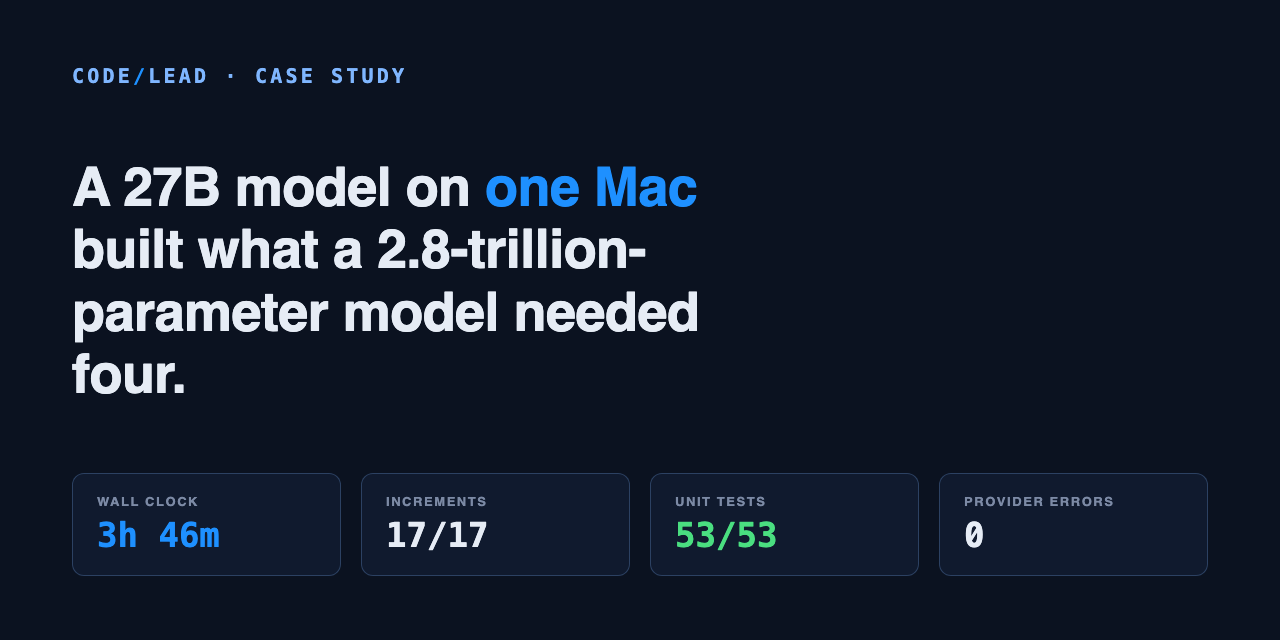
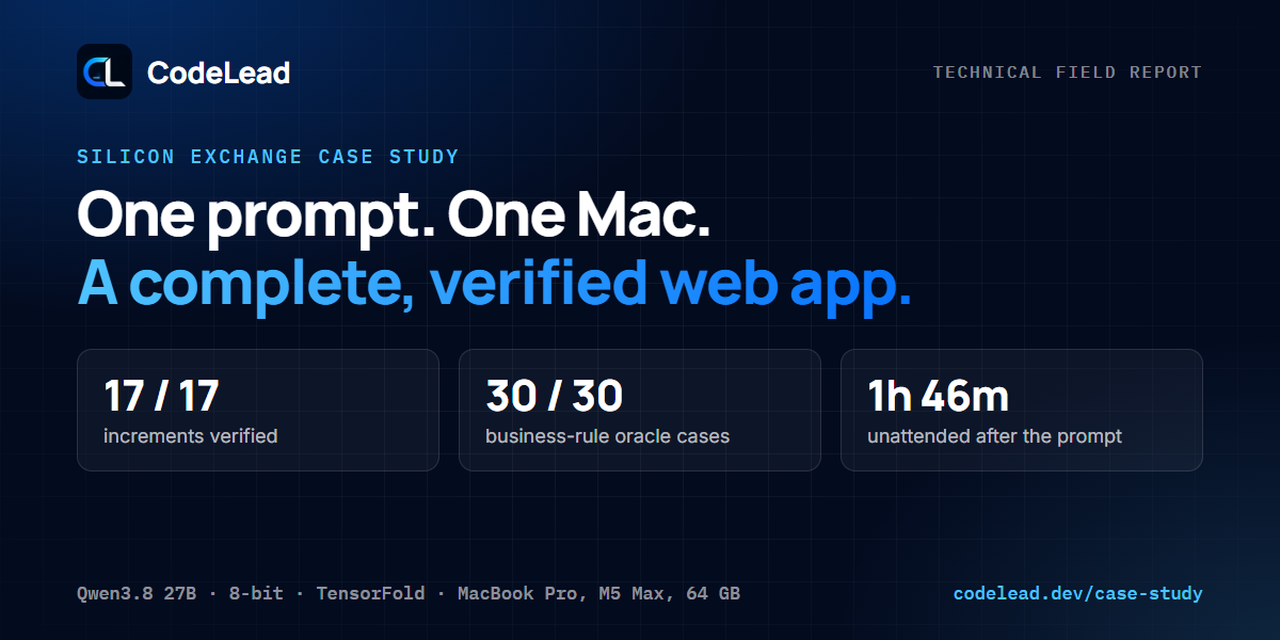
Lead with the TensorFold run of 2026-09-29; artifacts to be published
Headline figures from run k3-tensorfold-2026-09-29a (1h 46m, 17/17, 39/39 tests,
30/30 oracle cases, 48 model calls, 5 retries repaired in the run), with a note
that its artifacts are being prepared for publication. New
reproducibility/run-2026-09-29.md lists every figure with the artifact it was
measured from. The receipts repository stays as it is and is described as the
run of 2026-09-14; a run table shows all three runs. Model-and-hardware gains the
TensorFold serving; FAQ, other-models and citation date updated; social preview
regenerated.

diff --git a/README.md b/README.md
@@ -1,31 +1,41 @@
 # A 27B model on one Mac built what a 2.8-trillion-parameter model needed four.
 
-Same public challenge prompt. A complete, tested, six-route web product — planned, built,
+Same public challenge prompt. A complete, tested, five-route web product — planned, built,
 verified and committed end-to-end by **CodeLead** orchestrating a small local model. No
-human touched the code. In under two and a half hours, on a laptop.
+human touched the code. In under two hours, on a laptop.
 
-**The receipts:** the application, exactly as the pipeline produced it, with full git
-history — the shell, the build, one governed fix, the polish:
+**The receipts:** an application exactly as the pipeline produced it from this prompt, with
+full git history, from the run of 2026-09-14:
 **[CodeLead-ai/silicon-exchange-app](https://github.com/CodeLead-ai/silicon-exchange-app)**.
 How to reproduce it, step by step: **[reproducibility/](reproducibility/)**.
 
+The figures below are from the latest run, **2026-09-29**, same model and laptop, served by
+TensorFold with speculative decoding. The run's own artifacts (run journal, console and serving logs, the session log, the oracle results) are being prepared for publication and will be added to `reproducibility/` soon; until then, [`reproducibility/run-2026-09-29.md`](reproducibility/run-2026-09-29.md) holds every figure with the artifact it was measured from.
+
 | | |
 |---|---|
-| Wall clock, unattended, launch to exit | **2h 26m 37s** (2h 09m of build after a 17m 28s planning phase) |
-| Increments verified | **18 / 18** — every one gate-checked |
-| Unit tests, written by the model, passing | **40 / 40** |
-| Business-rule checks, independent of the model's tests | **26 / 26** — including the one its first attempt got wrong |
-| Provider / transport model errors | **0** — zero retries, zero warnings |
+| Wall clock, unattended, launch to exit | **1h 46m 05s** (1h 42m of build after a 4m 14s planning phase) |
+| Increments verified | **17 / 17** — every one built, tested, probed and checkpointed |
+| Unit tests, written by the model, passing | **39 / 39** (five test files) |
+| Business-rule oracle cases, independent of the model's tests | **30 / 30** |
+| Retries inside the run | **5**, across four increments (two build failures, one test failure, one probe failure, one more build failure) — every one repaired in the run, none by a person; **0** failed |
+| Model calls · tokens · cost | 48 · 758,514 prompt + 257,486 completion · **$0.00** (local) |
 
-All values come from [`reproducibility/run-summary.json`](reproducibility/run-summary.json),
-derived from the run's own logs.
+Three runs of this challenge have been published or are about to be, and the numbers moved
+with the pipeline and the serving, not the model:
+
+| Run | Serving | Wall clock | Increments | Tests | Rule checks | Receipts |
+|---|---|---|---|---|---|---|
+| 2026-09-02 | LM Studio | 3h 46m | 17 / 17 | 53 / 53 | — | [silicon-exchange](https://github.com/CodeLead-ai/silicon-exchange) |
+| 2026-09-14 | LM Studio | 2h 27m | 18 / 18 | 40 / 40 | 26 / 26 | [silicon-exchange-app](https://github.com/CodeLead-ai/silicon-exchange-app) |
+| **2026-09-29** | **TensorFold, speculative decoding** | **1h 46m** | **17 / 17** | **39 / 39** | **30 / 30** | artifacts to be published |
 
 ## The challenge
 
 "Silicon Exchange" is a GPU-rental marketplace from a public benchmark prompt featured in
 Alex Ziskind's video
 [*"I Gave Local AI and the Cloud the Exact Same Job"*](https://www.youtube.com/watch?v=ujs0_cpAnaw):
-six routes; five business-rule sets that must be pure, tested functions (half-open overlap
+five routes; five business-rule sets that must be pure, tested functions (half-open overlap
 detection, 15-minute round-up pricing with an excess-hours discount, hold expiry,
 maintenance blocking, combined filter/sort); URL-persisted filters; localStorage
 reservations; a dark "trading terminal" design language; and a quality bar of
@@ -42,33 +52,39 @@ adapted prompt is published verbatim in
 |---|---|---|---|---|
 | Kimi K3, local *(from the video)* | 2.8T params (817 GB served) | 4× Mac Studio, 2 TB unified, ≈$64k · 14.7 tok/s | 4 hours | Completed |
 | Abacus Supercomputer *(from the video, sponsored)* | Opus 5 high + GPT 5.6 Soul (frontier cloud) | Always-on cloud VM | 15 min | Completed, strongest visuals |
-| **CodeLead + local model** | **qwen3.8 27B @ 8-bit** | **One Mac laptop** (LM Studio) | **2h 27m** | **Completed — every claim machine-verified** |
+| **CodeLead + local model** | **qwen3.8 27B @ 8-bit** | **One Mac laptop** (TensorFold, speculative decoding) | **1h 46m** | **Completed — every claim machine-verified** |
 
 The first two rows are figures as stated in the video. Our model is roughly 100× smaller
-than the local reference — and generated faster on one machine (≈18 vs 14.7 tokens/second)
-than the 2.8T model did on four. Our first published run of this challenge, on 2026-09-02,
-took 3h 46m; the run above is the current pipeline one week later, same model, same laptop.
+than the local reference, and with speculative decoding it decoded at about 59 tokens/second
+on one machine (median 55, range 45–100 across the run's 52 requests) against the 2.8T
+model's 14.7 on four. The same model served by LM Studio, without a drafter, ran at about 18
+tokens/second in the 2026-09-14 run.
 
 ## How CodeLead built it
 
-Six steps, each recorded in the receipts:
+Six steps, each recorded in the run's artifacts (the 2026-09-29 run):
 
-1. **Increment plan.** One planning call decomposed the request into 18 dependency-ordered
-   increments — pure-logic rules (with tests) before the pages that consume them.
-2. **Plan review.** Before any building started, the plan was checked against the request,
-   so that stated requirements could not be silently dropped; six were added.
-3. **Project scaffold.** The empty runnable shell — the equivalent of a project template,
-   with its styling baseline and test setup — is produced by the pipeline itself, with no
-   model calls involved.
-4. **Governed build.** The model builds inside a bounded, monitored workspace — write,
-   build, test, fix — and CodeLead judges the result at every boundary. The model never
-   edits files without the harness seeing it.
-5. **Independent verification.** Every planned capability was exercised in a real browser,
-   and every business rule in the request was checked independently of the model's own
-   tests. What failed became a scoped fix, verified again.
-6. **Evidence ledger.** Each verified stage is git-checkpointed with its evidence; the
-   ledger of what exists (and what failed) grounds every later step. Failures revert
-   cleanly and never poison the build.
+1. **Increment plan.** One planning call decomposed the request into 17 dependency-ordered
+   increments — pure-logic rules (with tests) before the pages that consume them. 1m 46s.
+2. **Plan review.** Before any building started, a coverage review and a plan critic checked
+   the plan against the request, so that stated requirements could not be silently dropped;
+   six were added. 2m 28s.
+3. **Governed build.** The model builds one increment at a time inside a bounded, monitored
+   workspace, and CodeLead judges the result at every boundary. The model never edits files
+   without the harness seeing it.
+4. **A gate on every increment.** Each increment had to build, pass its tests and pass an
+   acceptance probe in a real browser before it was checkpointed. Of 18 probe criteria, 11
+   were readable by a browser; 6 passed, 1 failed and was repaired.
+5. **Repair inside the run.** A failed gate sent the failure back to the model: 22 attempts
+   for 17 increments, five retries, none by a person. Nothing was repaired after the run.
+6. **Independent check, and the evidence ledger.** After the run, the request's business
+   rules were checked against the built application by a 30-case oracle written from the
+   specification, not by the model: 30 of 30. Each verified increment is checkpointed with
+   its evidence; failures revert cleanly and never poison the build.
+
+The earlier published run (2026-09-14, receipts above) ran the same loop with the checks
+after the build instead of inside each increment, and one scoped fix at the end; its
+stage-by-stage log is [`reproducibility/run-log.sanitized.md`](reproducibility/run-log.sanitized.md).
 
 The invariant: nothing was marked done that wasn't machine-checked.
 
@@ -80,6 +96,9 @@ The invariant: nothing was marked done that wasn't machine-checked.
 | Home — live fleet stats computed from the data layer | Browse — search, filters and sort persisted in the URL |
 | ![Listing detail](assets/screenshots/listing.png) | ![Dashboard](assets/screenshots/dashboard.png) |
 | Listing detail — spec sheet, utilization chart, availability, live-priced reservation | Dashboard — reservations from localStorage with countdowns and running spend |
+
+Screenshots are of the 2026-09-14 application in the receipts repository; the 2026-09-29
+run was not captured. They will be replaced when that run's artifacts are published.
 
 ## Not tuned to this prompt
 
@@ -117,7 +136,7 @@ and every finished app was also reviewed by hand. Details in
 | Kimi K2.7 Code (`moonshotai/kimi-k2.7-code`, remote via OpenRouter) | MoE, total not published | Cloud, $1.10 | **Complete, every claim verified, 1h 11m.** All 8 slices, 21 tests, every runnable rule check right. Reviewed by hand as very good and on a par with DeepSeek: a better reservation layout, other parts implemented better by DeepSeek. A first run lost two slices to the model's own tool-call syntax, now read by the build loop. |
 | GLM 5.3 (`z-ai/glm-5.3`, remote via OpenRouter) | large MoE, total not published | Cloud, $3.29 | **All 11 increments verified in 35 minutes**, 70 tests, 62 of 62 static items, 29 of 29 rule checks right — and reviewed by hand as a bad interface: wrong colours, a single-column browse page, and the reserve flow is not usable. The most complete build and one of the least usable. |
 | gpt-oss 120B (`openai/gpt-oss-120b`, remote via OpenRouter) | 117B MoE, 5.1B active | Cloud, $0.08 | 8 of 9 slices in 28 minutes for eight cents; 11 tests, only 5 listings, whole-hour pricing (3 rule checks wrong). Reviewed by hand as the weakest of the batch; its one flourish was emojis on the home page. |
-| **Qwen3.8 27B** (`qwen/qwen3.8-27b`, 8-bit) | 27B dense | One Mac laptop | **Complete, every claim verified, 2h 27m** — the run this page is about. |
+| **Qwen3.8 27B** (`qwen/qwen3.8-27b`, 8-bit) | 27B dense | One Mac laptop | **Complete, every claim verified: 1h 46m on TensorFold (2026-09-29), 2h 27m on LM Studio (2026-09-14)** — the runs this page is about. |
 
 **Size, cost and result did not line up.** The two remote models that completed the whole
 product were not the two that produced the best apps: GLM 5.3 verified everything and was the
@@ -138,8 +157,10 @@ made on earlier versions of the pipeline and are reported as run.
   unattended.
 - **Run count, honestly.** The first published run (3h 46m, 17/17) was made on 2026-09-02.
   In the following week we ran the challenge about twenty more times while changing one
-  thing at a time in the pipeline, scoring every run the same way. The run shown here is
-  the first performed on the current configuration, not the best of many.
+  thing at a time in the pipeline, scoring every run the same way, and published the run of
+  2026-09-14 with its receipts. The run the page now leads with, 2026-09-29, is the most
+  recent on the current configuration, with the model served by TensorFold instead of LM
+  Studio; its artifacts are being prepared for publication.
 - **One declared adaptation.** Next.js → Vite + React + TypeScript; the adapted prompt is
   published.
 - **Interface quality is a human judgment**, not a metric. Ours was reviewed by hand; the
@@ -201,17 +222,20 @@ does not finish on a 27B.
 from the same misunderstanding, tests passing proves nothing, and nothing in the loop can
 tell you. In CodeLead, finished means checked: every business rule in the request is
 verified independently of the model's own tests, in the browser and in the test runner. In
-the run above, that check caught the same pricing defect in CodeLead's own build, scheduled
-a scoped fix, and confirmed it — ten minutes, nobody reading the code. That difference, not
-speed and not looks, is the case study.
+the 2026-09-14 run, that check caught the same pricing defect in CodeLead's own build,
+scheduled a scoped fix, and confirmed it — ten minutes, nobody reading the code. In the
+2026-09-29 run the rule check passed 30 of 30, and the failures the model did make on the
+way (two builds, a test, a browser probe, a build again) were caught at the gate and
+repaired before the increment could land. That difference, not speed and not looks, is the
+case study.
 
 ## Why this matters
 
 The video's question was whether local AI can do the job. Its answer was yes, with four
 machines, four hours, and a model you cannot buy the hardware for; or the cloud, in fifteen
 minutes, with your code leaving the building. Ours is a third answer: **one laptop, a model
-that fits on it, under two and a half hours — and every claim about the result checked by a
-machine, not by the model that made it.** Frontier-scale results don't require
+that fits on it, under two hours — and every claim about the result checked by a machine,
+not by the model that made it.** Frontier-scale results don't require
 frontier-scale hardware, and "it compiles and the tests pass" is not the same as "it charges
 the right amount". CodeLead's thesis — that a governed engineering workflow (planning,
 scoped execution, machine verification, evidence records) unlocks small local models —
@@ -222,8 +246,11 @@ underlying methods.
 ## Reproduce it
 
 - The exact prompt: [`reproducibility/challenge-prompt.md`](reproducibility/challenge-prompt.md)
-- Model, quantization, runtime and machine: [`reproducibility/model-and-hardware.md`](reproducibility/model-and-hardware.md)
-- The stage-by-stage timeline with gate outcomes and receipt commits:
+- Model, quantization, runtime and machine, for both servings:
+  [`reproducibility/model-and-hardware.md`](reproducibility/model-and-hardware.md)
+- The 2026-09-29 run, every figure with its source, and the list of artifacts to come:
+  [`reproducibility/run-2026-09-29.md`](reproducibility/run-2026-09-29.md)
+- The 2026-09-14 run's stage-by-stage timeline with gate outcomes and receipt commits:
   [`reproducibility/run-log.sanitized.md`](reproducibility/run-log.sanitized.md)
 - The first published run (2026-09-02, 3h 46m, 17/17, 53/53 tests) and its receipts:
   [`reproducibility/run-2026-09-02.md`](reproducibility/run-2026-09-02.md) and
@@ -237,7 +264,7 @@ If you rerun it — on any hardware, with any model — we'd genuinely like to s
 CodeLead is a local-first governance layer that turns AI coding agents into a governed
 engineering workflow: work is planned, scoped, executed one approved change at a time,
 machine-verified, and recorded as evidence. It runs local models by default via LM Studio
-(and OpenAI-compatible servers such as Ollama); remote models are available when you
+(and OpenAI-compatible servers such as Ollama and TensorFold); remote models are available when you
 choose them, and then the code goes to that provider. An installable beta is coming.
 The full write-up of this case study, with the limits spelled out, is at
 [codelead.dev/case-study](https://codelead.dev/case-study).
@@ -254,5 +281,6 @@ Reference comparison from Alex Ziskind, ["I Gave Local AI and the Cloud the Exac
 Job"](https://www.youtube.com/watch?v=ujs0_cpAnaw), a video sponsored by Abacus AI; Kimi K3
 ran unattended on the 4× Mac Studio cluster (Thunderbolt 5 mesh, MLX distributed) driven by
 opencode, and the Abacus Supercomputer agent ran with Opus 5 high + GPT 5.6 Soul selected —
-figures as stated in the video. CodeLead run: 2026-09-14, qwen3.8-27b (8-bit, MLX) via LM
-Studio on a single Mac laptop. Content license: CC BY 4.0. © 2026 CodeLead.
+figures as stated in the video. CodeLead runs: 2026-09-29, qwen3.8-27b (8-bit) served by
+TensorFold with speculative decoding, and 2026-09-14, the same model via LM Studio, each on a
+single Mac laptop. Content license: CC BY 4.0. © 2026 CodeLead.

diff --git a/reproducibility/run-2026-09-29.md b/reproducibility/run-2026-09-29.md
@@ -1,0 +1,52 @@
+# The run the case study leads with — 2026-09-29 (TensorFold)
+
+Run `k3-tensorfold-2026-09-29a`, 18:02Z to 19:48Z. Same prompt, same model checkpoint and
+same laptop as the 2026-09-14 run; the model is served by TensorFold with speculative
+decoding instead of LM Studio. Unattended after the prompt, by construction of the runner.
+
+**Artifacts.** The run journal (`run-journal.json`), the run report, the console log, the
+serving configuration and serve log, the session log (every model call), the closeout
+scorecard and the oracle results are being prepared for publication and will be added to
+this folder soon. Until then this file holds every figure with the artifact it was measured
+from. Nothing here is estimated. The application built by this run has not been published
+either; the receipts repository holds the 2026-09-14 application.
+
+## Figures
+
+| Figure | Value | Measured from |
+|---|---|---|
+| Wall clock, launch to exit | 1h 46m 05s (106.1 min; `wallClockMs` 6,365,482) | console log first/last line; run journal `run_ended` |
+| Planning | 4m 14s (1m 46s planning, 2m 28s coverage review and plan critic) | console log |
+| Building | 1h 42m (101.9 min) | console log |
+| Increments | 17 planned, 17 `increment_settled` as `verified`; exit `all_increments_done` | run journal |
+| Attempts | 22 for 17 increments; 5 retries, 0 failed (three increments took two attempts, one took three: two build failures, one test failure, one probe failure, one more build failure) | run journal gates; scorecard |
+| Acceptance probe | 18 criteria; 11 readable by a browser; 6 passed, 1 failed and was repaired | run journal |
+| Plan coverage | six stated requirements injected into the plan by the coverage review | console log (six `Plan coverage: injected into …` lines) |
+| Unit tests | 39 / 39 passing, 5 test files | `npx vitest run` in the built app |
+| Business-rule oracle | 30 / 30 cases (`k3-rules.oracle.ts`, unchanged since 2026-09-12), run 2026-09-30 | oracle results |
+| Closeout spec check | 61 of 62; the one miss is "overlap: cancelled excluded", because this app models no cancelled reservation status (its overlap check ignores expired ones instead); the oracle passes because its adapter maps a cancelled reservation to that status | closeout scorecard |
+| Routes | five (`/`, `/browse`, `/compare`, `/dashboard`, `/listings/:slug`) plus the not-found route; five business-rule sets | `src/App.tsx` of the built app |
+| Code written | 39 source files, 2,686 lines under `src/` | `find` / `wc` on the built app |
+| Model calls | 48 (21 preflight, 21 patch, 3 focused patch, 3 patch retries) | session log `model.call.completed` |
+| Model time inside the run | 97.5 min of the 106.1 | scorecard |
+| Tokens | 758,514 prompt (39,644 cached), 257,486 completion | scorecard, server-reported usage |
+| Cost | $0.00 (local) | scorecard |
+| Decode rate | mean 59.3 tokens/second, median 55.5, range 45–100 across 52 completed requests | TensorFold serve log, `tok/s=` per request |
+| Human input after the prompt | none | the runner is unattended by construction |
+
+## Model and serving
+
+| | |
+|---|---|
+| Model | `Qwen3.8-27B-MLX-8bit`, the same checkpoint file as the 2026-09-14 run |
+| Server | `tensorfold serve … --context 89600 --reasoning-effort medium` |
+| Speculative decoding | drafter `z-lab/Qwen3.8-27B-DFlash2` |
+| Machine | MacBook Pro, Apple M5 Max, 64 GB unified memory (`system_profiler`) |
+
+## Stages, as the evidence ledger on codelead.dev shows them
+
+| # | Stage | Duration | Gates |
+|---|---|---|---|
+| 01 | Plan: 17 increments, checked against the request | 4m 14s | — |
+| 02 | Governed build: 17 increments, each built, tested, probed and checkpointed | 1h 42m | build ✓ · tests ✓ · probe partly observable (11 of 18 readable) |
+| 03 | Independent check after the run | — | build ✓ · tests 39/39 ✓ · oracle 30/30 ✓ |

diff --git a/FAQ.md b/FAQ.md
@@ -4,7 +4,7 @@
 Yes, it did, and we say so in the comparison table. The claim is not speed. It is that a
 fixed-cost laptop, with no code leaving it, produced a fully machine-verified result
 unattended. If your constraint is privacy, cost predictability, or air-gapped
-infrastructure, the 15-minute cloud run is not an option — the 2h 27m local run is.
+infrastructure, the 15-minute cloud run is not an option — the 1h 46m local run is.
 
 **"Why did Kimi K3 take four hours on four Mac Studios?"**
 Our reading, not a measurement of their setup. The video states 238 tokens/second of prompt
@@ -24,8 +24,8 @@ on the same model, laptop and settings: opencode (the tool from the video) and o
 plain loop. The plain loop built a complete, good-looking marketplace in 75 minutes with 64
 passing tests — and the pricing rule wrong, with its own test asserting the wrong number.
 Nothing in the loop could know. That is why not raw: "finished" is the model's word for
-it. In CodeLead, finished means checked, and the same defect in CodeLead's own build was
-caught and fixed in ten minutes. Details: [`reproducibility/control-arms.md`](reproducibility/control-arms.md).
+it. In CodeLead, finished means checked: the same defect in CodeLead's own 2026-09-14 build
+was caught and fixed in ten minutes, and the 2026-09-29 build passed all 30 oracle cases. Details: [`reproducibility/control-arms.md`](reproducibility/control-arms.md).
 
 **"You ran opencode? That is what the video used."**
 Yes — opencode 1.18 against the same LM Studio endpoint, same model, same prompt. At the
@@ -39,16 +39,20 @@ report it as run; the settings are in the control-arms document.
 The first published run (2026-09-02, 3h 46m, 17/17) was the first run performed on its
 configuration at the time. In the following week we ran the challenge about twenty more
 times while changing one thing at a time in the pipeline — context handling, step size,
-build-then-verify, the independent rule check — scoring every run the same way. The run
-shown here is the first performed on the current configuration. Run-to-run wall clock on
-identical configurations varies by about ±20 minutes.
+build-then-verify, the independent rule check — scoring every run the same way, and published the
+run of 2026-09-14 with its receipts. The run the case study now leads with, 2026-09-29, is
+the most recent on the current configuration, with the model served by TensorFold; its
+artifacts are being prepared for publication. Run-to-run wall clock on identical
+configurations varied by about ±20 minutes on LM Studio.
 
-**"Why is this run faster than your first one?"**
-Because the pipeline changed, not the model. The first run made 38 model calls with a
-per-step analysis before each patch; the current one gives the model a bounded workspace to
-build in, verifies the whole product afterwards, and sends only what failed back as a
-scoped fix. Same model, same laptop, same serving; 3h 46m became 2h 27m with more
-verification, not less.
+**"Why is each run faster than the one before?"**
+From 3h 46m to 2h 27m, the pipeline changed, not the model: the first run made 38 model
+calls with a per-step analysis before each patch; the 2026-09-14 run gave the model a
+bounded workspace to build in, verified the whole product afterwards, and sent only what
+failed back as a scoped fix. Same model, same laptop, same serving, more verification. From
+2h 27m to 1h 46m, the serving changed: the same checkpoint served by TensorFold with
+speculative decoding decoded at about 59 tokens/second instead of 18, and the checks moved
+inside each increment.
 
 **"Did you tune CodeLead to this prompt?"**
 No, and we checked. The same morning we wrote two requests in unrelated domains — a team

diff --git a/reproducibility/README.md b/reproducibility/README.md
@@ -6,20 +6,24 @@ Everything needed to rerun the experiment or audit the published runs:
    verbatim, with the one declared stack adaptation (Next.js → Vite) stated.
 2. **[model-and-hardware.md](model-and-hardware.md)** — model, quantization, runtime, serving
    settings, machine spec.
-3. **[run-summary.json](run-summary.json)** — the machine-readable summary of the run the case
-   study leads with (2026-09-14): timings per stage, increments, tests, verification, and the
-   development-run honesty block.
-4. **[run-log.sanitized.md](run-log.sanitized.md)** — that run's stage-by-stage timeline with
+3. **[run-2026-09-29.md](run-2026-09-29.md)** — the run the case study leads with (TensorFold,
+   speculative decoding): every figure with the artifact it was measured from. The artifacts
+   themselves (run journal, console and serving logs, session log, scorecard, oracle results)
+   are being prepared for publication and will be added here soon.
+4. **[run-summary.json](run-summary.json)** — the machine-readable summary of the 2026-09-14
+   run (LM Studio), whose receipts are published: timings per stage, increments, tests,
+   verification, and the development-run honesty block.
+5. **[run-log.sanitized.md](run-log.sanitized.md)** — that run's stage-by-stage timeline with
    gate outcomes, linked to the receipts repository
    [CodeLead-ai/silicon-exchange-app](https://github.com/CodeLead-ai/silicon-exchange-app).
-5. **[run-2026-09-02.md](run-2026-09-02.md)** — the first published run (3h 46m, 17/17), with
+6. **[run-2026-09-02.md](run-2026-09-02.md)** — the first published run (3h 46m, 17/17), with
    its own [summary](run-summary-2026-09-02.json), [log](run-log-2026-09-02.sanitized.md) and
    receipts ([CodeLead-ai/silicon-exchange](https://github.com/CodeLead-ai/silicon-exchange)).
-6. **[control-arms.md](control-arms.md)** — the same model with the pipeline removed: opencode
+7. **[control-arms.md](control-arms.md)** — the same model with the pipeline removed: opencode
    (the tool from the video) and our own plain loop, settings and outcomes.
-7. **[other-models.md](other-models.md)** — ten models on the same prompt and pipeline, six on
+8. **[other-models.md](other-models.md)** — ten models on the same prompt and pipeline, six on
    the laptop and four remote, with the hand review of each finished app and screenshots.
-8. **[tally-request.md](tally-request.md)** and **[pocket-ledger-request.md](pocket-ledger-request.md)**
+9. **[tally-request.md](tally-request.md)** and **[pocket-ledger-request.md](pocket-ledger-request.md)**
    — the two off-domain requests, verbatim, that check the pipeline was not tuned to this prompt.
 
 To audit rather than rerun: clone a receipts repo, run `npm install && npm test && npm run

diff --git a/reproducibility/other-models.md b/reproducibility/other-models.md
@@ -17,7 +17,7 @@ rendering.
 | `z-ai/glm-5.3` | large MoE, total not published · remote via OpenRouter | Cloud | **Remote run, disclosed.** Current pipeline, 2026-09-15: **11 of 11** increments in **35.2 min**, exit `all_increments_done`, 76 calls, 2.9M prompt tokens (2.3M cached), 425k completion (14k reasoning), **$3.29**. Build green, **70 tests**, **62 of 62** static items, in-pipeline rule check 34/34, hand-written checks **29 passed, 0 wrong**, 1 skipped. Browse renders as one long column. |
 | `deepseek/deepseek-v4.1-flash` | MoE, 8–16B active, total not published · remote via OpenRouter (Alibaba) | Cloud | **Remote run, disclosed.** **7 of 9** slices in 86.9 min, 73 calls, 4.25M prompt tokens (2.57M cached), 501k completion, **$0.93**. The browse slice and the listing-detail slice never verified (the latter's last attempt ended on an upstream host error). Build green, 26 tests, 60 of 62 static items, hand-written checks **29 passed, 0 wrong**, 1 skipped. |
 | `openai/gpt-oss-120b` | 117B MoE, 5.1B active · remote via OpenRouter | Cloud | **Remote run, disclosed.** **8 of 9** slices in 28.2 min, 66 calls, **$0.08**. Build green, 11 tests, 54 of 62 static items (5 listings, 3 regions, no seeded PRNG); the in-pipeline rule check could not run (reply not JSON). Hand-written checks: **22 passed, 3 wrong** (pricing rounds 15-minute blocks up to whole hours), 1 not runnable, 2 skipped. |
-| `qwen/qwen3.8-27b` | 27B dense · 8-bit MLX | One Mac laptop | **Complete.** 2h 27m, 18/18, 40/40 tests, 26/26 business-rule checks. The run this case study is about. |
+| `qwen/qwen3.8-27b` | 27B dense · 8-bit MLX | One Mac laptop | **Complete.** LM Studio, 2026-09-14: 2h 27m, 18/18, 40/40 tests, 26/26 business-rule checks (receipts published). TensorFold with speculative decoding, 2026-09-29: 1h 46m, 17/17, 39/39 tests, 30/30 oracle cases — the run the case study leads with; artifacts to be published ([`run-2026-09-29.md`](run-2026-09-29.md)). |
 
 The same prompt produced 15-, 17-, 18- and 22-increment plans across these models; the
 plan is the model's, the review of it against the request is the pipeline's.

diff --git a/reproducibility/model-and-hardware.md b/reproducibility/model-and-hardware.md
@@ -1,8 +1,23 @@
 # Model, runtime, and hardware
 
-Everything below is what the published run (2026-09-14) actually used. If a setting is not
-listed, it was the runtime's default. The 2026-09-02 run used the same model, machine and
-serving settings.
+Two servings of the same model on the same machine. The run the case study leads with
+(2026-09-29) used TensorFold; the run whose receipts are published (2026-09-14) and the
+2026-09-02 run used LM Studio. If a setting is not listed, it was the runtime's default.
+
+## The 2026-09-29 run: TensorFold with speculative decoding
+
+| | |
+|---|---|
+| Model | `Qwen3.8-27B-MLX-8bit`, the same checkpoint file as below |
+| Server | `tensorfold serve … --context 89600 --reasoning-effort medium` |
+| Speculative decoding | drafter `z-lab/Qwen3.8-27B-DFlash2` |
+| Observed decode rate | mean 59.3 tokens/second, median 55.5, range 45–100 across 52 requests (serve log) |
+| Machine | the same MacBook Pro as below |
+
+The serving configuration and serve log will be published with the run's artifacts; see
+[`run-2026-09-29.md`](run-2026-09-29.md).
+
+## The 2026-09-14 and 2026-09-02 runs: LM Studio
 
 ## Model
 
